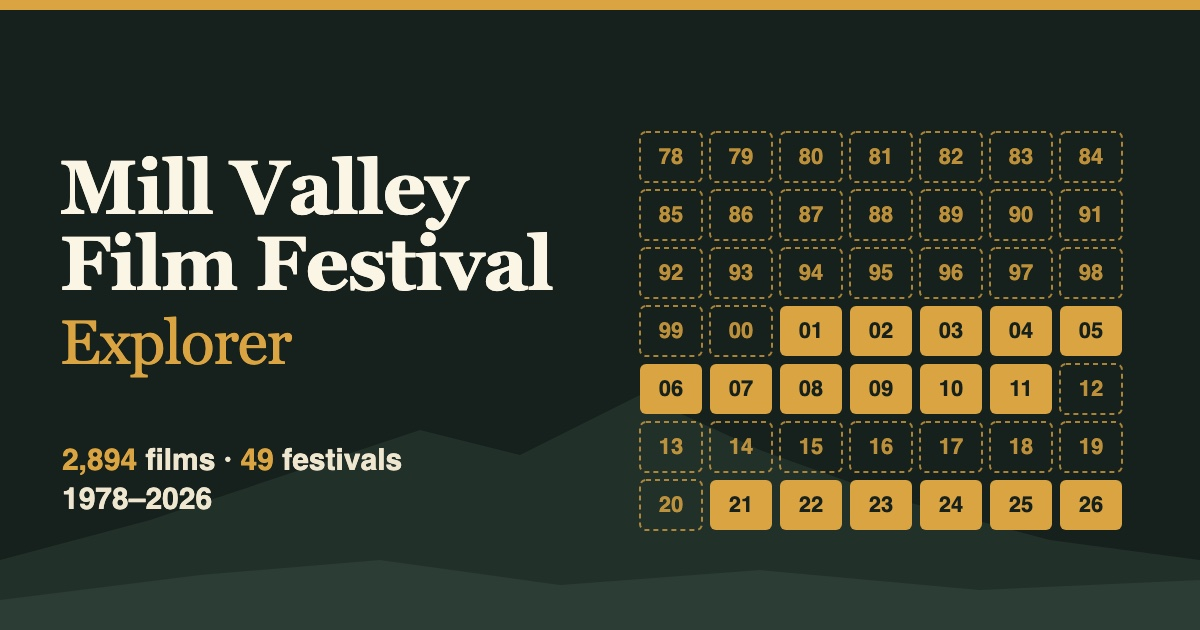
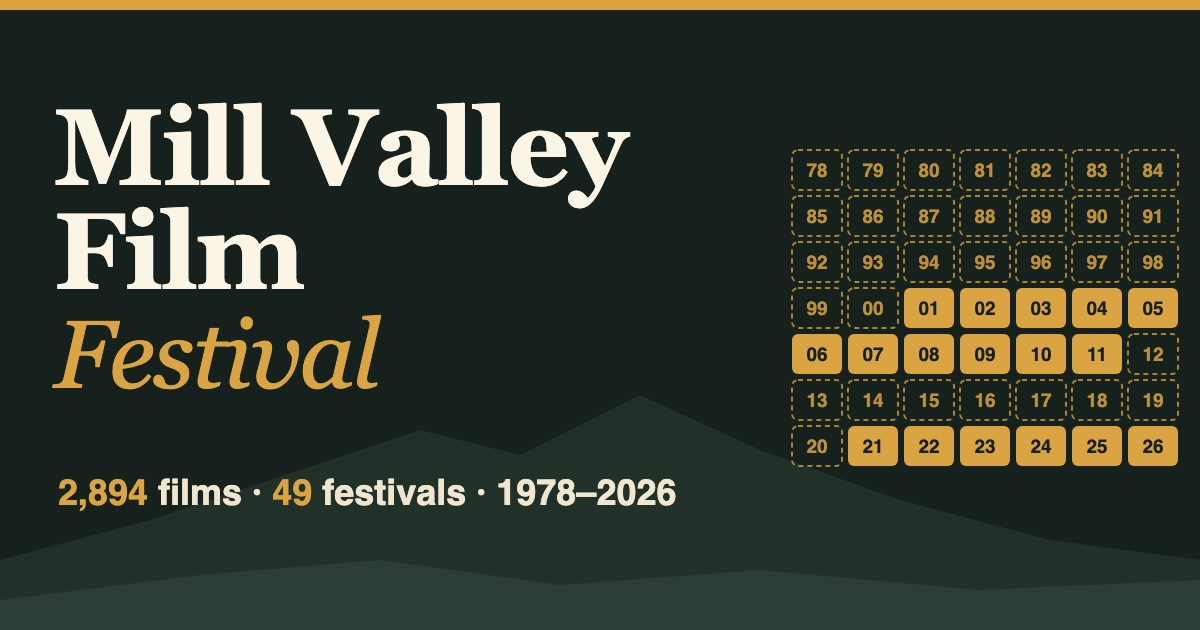
Cover: larger lettering so it reads at landing-card size

Changed region(s): [[0.0308, 0.1508, 0.9867, 0.8444]]

diff --git a/cover/cover.html b/cover/cover.html
@@ -2,17 +2,17 @@
 html,body{margin:0;width:1200px;height:630px;overflow:hidden;background:#16201c;font-family:Georgia,serif}
 svg{position:absolute;inset:0}
 .on{fill:#d9a441} .off{fill:none;stroke:#d9a441;stroke-width:2;stroke-dasharray:5 4;opacity:.75}
-text{font:700 22px -apple-system,Helvetica,sans-serif;text-anchor:middle}
+text{font:700 19px -apple-system,Helvetica,sans-serif;text-anchor:middle}
 .ton{fill:#16201c} .toff{fill:#d9a441;opacity:.85}
-h1{position:absolute;left:60px;top:150px;margin:0;color:#fbf5e6;font:700 76px/1.0 Georgia,serif;letter-spacing:-1px}
-h1 em{display:block;color:#d9a441;font-style:normal;font-weight:400;font-size:62px;margin-top:10px}
-p{position:absolute;left:62px;top:440px;margin:0;color:#efe6d0;font:600 30px/1.3 -apple-system,Helvetica,sans-serif}
+h1{position:absolute;left:54px;top:96px;margin:0;color:#fbf5e6;font:700 108px/.96 Georgia,serif;letter-spacing:-2px}
+h1 em{display:block;color:#d9a441;font-style:italic;font-weight:400;font-size:96px;margin-top:6px}
+p{position:absolute;left:58px;top:470px;margin:0;color:#efe6d0;font:600 36px/1.25 -apple-system,Helvetica,sans-serif}
 p b{color:#d9a441}
 </style>
 <svg viewBox="0 0 1200 630"><rect width="1200" height="630" fill="#16201c"/>
 <path d="M0 630 L0 560 L150 520 L300 470 L420 430 L520 455 L640 395 L760 450 L900 500 L1050 540 L1200 560 L1200 630 Z" fill="#22302a"/>
 <path d="M0 630 L0 600 L200 575 L380 560 L560 585 L760 570 L980 590 L1200 580 L1200 630 Z" fill="#2c3d35"/>
 <rect x="0" y="0" width="1200" height="10" fill="#d9a441"/>
-<g><rect x="640" y="132" width="62" height="50" rx="6" class="off"/><text x="671.0" y="164.0" class="toff">78</text></g><g><rect x="710" y="132" width="62" height="50" rx="6" class="off"/><text x="741.0" y="164.0" class="toff">79</text></g><g><rect x="780" y="132" width="62" height="50" rx="6" class="off"/><text x="811.0" y="164.0" class="toff">80</text></g><g><rect x="850" y="132" width="62" height="50" rx="6" class="off"/><text x="881.0" y="164.0" class="toff">81</text></g><g><rect x="920" y="132" width="62" height="50" rx="6" class="off"/><text x="951.0" y="164.0" class="toff">82</text></g><g><rect x="990" y="132" width="62" height="50" rx="6" class="off"/><text x="1021.0" y="164.0" class="toff">83</text></g><g><rect x="1060" y="132" width="62" height="50" rx="6" class="off"/><text x="1091.0" y="164.0" class="toff">84</text></g><g><rect x="640" y="190" width="62" height="50" rx="6" class="off"/><text x="671.0" y="222.0" class="toff">85</text></g><g><rect x="710" y="190" width="62" height="50" rx="6" class="off"/><text x="741.0" y="222.0" class="toff">86</text></g><g><rect x="780" y="190" width="62" height="50" rx="6" class="off"/><text x="811.0" y="222.0" class="toff">87</text></g><g><rect x="850" y="190" width="62" height="50" rx="6" class="off"/><text x="881.0" y="222.0" class="toff">88</text></g><g><rect x="920" y="190" width="62" height="50" rx="6" class="off"/><text x="951.0" y="222.0" class="toff">89</text></g><g><rect x="990" y="190" width="62" height="50" rx="6" class="off"/><text x="1021.0" y="222.0" class="toff">90</text></g><g><rect x="1060" y="190" width="62" height="50" rx="6" class="off"/><text x="1091.0" y="222.0" class="toff">91</text></g><g><rect x="640" y="248" width="62" height="50" rx="6" class="off"/><text x="671.0" y="280.0" class="toff">92</text></g><g><rect x="710" y="248" width="62" height="50" rx="6" class="off"/><text x="741.0" y="280.0" class="toff">93</text></g><g><rect x="780" y="248" width="62" height="50" rx="6" class="off"/><text x="811.0" y="280.0" class="toff">94</text></g><g><rect x="850" y="248" width="62" height="50" rx="6" class="off"/><text x="881.0" y="280.0" class="toff">95</text></g><g><rect x="920" y="248" width="62" height="50" rx="6" class="off"/><text x="951.0" y="280.0" class="toff">96</text></g><g><rect x="990" y="248" width="62" height="50" rx="6" class="off"/><text x="1021.0" y="280.0" class="toff">97</text></g><g><rect x="1060" y="248" width="62" height="50" rx="6" class="off"/><text x="1091.0" y="280.0" class="toff">98</text></g><g><rect x="640" y="306" width="62" height="50" rx="6" class="off"/><text x="671.0" y="338.0" class="toff">99</text></g><g><rect x="710" y="306" width="62" height="50" rx="6" class="off"/><text x="741.0" y="338.0" class="toff">00</text></g><g><rect x="780" y="306" width="62" height="50" rx="6" class="on"/><text x="811.0" y="338.0" class="ton">01</text></g><g><rect x="850" y="306" width="62" height="50" rx="6" class="on"/><text x="881.0" y="338.0" class="ton">02</text></g><g><rect x="920" y="306" width="62" height="50" rx="6" class="on"/><text x="951.0" y="338.0" class="ton">03</text></g><g><rect x="990" y="306" width="62" height="50" rx="6" class="on"/><text x="1021.0" y="338.0" class="ton">04</text></g><g><rect x="1060" y="306" width="62" height="50" rx="6" class="on"/><text x="1091.0" y="338.0" class="ton">05</text></g><g><rect x="640" y="364" width="62" height="50" rx="6" class="on"/><text x="671.0" y="396.0" class="ton">06</text></g><g><rect x="710" y="364" width="62" height="50" rx="6" class="on"/><text x="741.0" y="396.0" class="ton">07</text></g><g><rect x="780" y="364" width="62" height="50" rx="6" class="on"/><text x="811.0" y="396.0" class="ton">08</text></g><g><rect x="850" y="364" width="62" height="50" rx="6" class="on"/><text x="881.0" y="396.0" class="ton">09</text></g><g><rect x="920" y="364" width="62" height="50" rx="6" class="on"/><text x="951.0" y="396.0" class="ton">10</text></g><g><rect x="990" y="364" width="62" height="50" rx="6" class="on"/><text x="1021.0" y="396.0" class="ton">11</text></g><g><rect x="1060" y="364" width="62" height="50" rx="6" class="off"/><text x="1091.0" y="396.0" class="toff">12</text></g><g><rect x="640" y="422" width="62" height="50" rx="6" class="off"/><text x="671.0" y="454.0" class="toff">13</text></g><g><rect x="710" y="422" width="62" height="50" rx="6" class="off"/><text x="741.0" y="454.0" class="toff">14</text></g><g><rect x="780" y="422" width="62" height="50" rx="6" class="off"/><text x="811.0" y="454.0" class="toff">15</text></g><g><rect x="850" y="422" width="62" height="50" rx="6" class="off"/><text x="881.0" y="454.0" class="toff">16</text></g><g><rect x="920" y="422" width="62" height="50" rx="6" class="off"/><text x="951.0" y="454.0" class="toff">17</text></g><g><rect x="990" y="422" width="62" height="50" rx="6" class="off"/><text x="1021.0" y="454.0" class="toff">18</text></g><g><rect x="1060" y="422" width="62" height="50" rx="6" class="off"/><text x="1091.0" y="454.0" class="toff">19</text></g><g><rect x="640" y="480" width="62" height="50" rx="6" class="off"/><text x="671.0" y="512.0" class="toff">20</text></g><g><rect x="710" y="480" width="62" height="50" rx="6" class="on"/><text x="741.0" y="512.0" class="ton">21</text></g><g><rect x="780" y="480" width="62" height="50" rx="6" class="on"/><text x="811.0" y="512.0" class="ton">22</text></g><g><rect x="850" y="480" width="62" height="50" rx="6" class="on"/><text x="881.0" y="512.0" class="ton">23</text></g><g><rect x="920" y="480" width="62" height="50" rx="6" class="on"/><text x="951.0" y="512.0" class="ton">24</text></g><g><rect x="990" y="480" width="62" height="50" rx="6" class="on"/><text x="1021.0" y="512.0" class="ton">25</text></g><g><rect x="1060" y="480" width="62" height="50" rx="6" class="on"/><text x="1091.0" y="512.0" class="ton">26</text></g></svg>
-<h1>Mill Valley<br>Film Festival<em>Explorer</em></h1>
-<p><b>2,894</b> films · <b>49</b> festivals<br>1978–2026</p>
+<g><rect x="792" y="150" width="50" height="40" rx="6" class="off"/><text x="817.0" y="177.0" class="toff">78</text></g><g><rect x="848" y="150" width="50" height="40" rx="6" class="off"/><text x="873.0" y="177.0" class="toff">79</text></g><g><rect x="904" y="150" width="50" height="40" rx="6" class="off"/><text x="929.0" y="177.0" class="toff">80</text></g><g><rect x="960" y="150" width="50" height="40" rx="6" class="off"/><text x="985.0" y="177.0" class="toff">81</text></g><g><rect x="1016" y="150" width="50" height="40" rx="6" class="off"/><text x="1041.0" y="177.0" class="toff">82</text></g><g><rect x="1072" y="150" width="50" height="40" rx="6" class="off"/><text x="1097.0" y="177.0" class="toff">83</text></g><g><rect x="1128" y="150" width="50" height="40" rx="6" class="off"/><text x="1153.0" y="177.0" class="toff">84</text></g><g><rect x="792" y="196" width="50" height="40" rx="6" class="off"/><text x="817.0" y="223.0" class="toff">85</text></g><g><rect x="848" y="196" width="50" height="40" rx="6" class="off"/><text x="873.0" y="223.0" class="toff">86</text></g><g><rect x="904" y="196" width="50" height="40" rx="6" class="off"/><text x="929.0" y="223.0" class="toff">87</text></g><g><rect x="960" y="196" width="50" height="40" rx="6" class="off"/><text x="985.0" y="223.0" class="toff">88</text></g><g><rect x="1016" y="196" width="50" height="40" rx="6" class="off"/><text x="1041.0" y="223.0" class="toff">89</text></g><g><rect x="1072" y="196" width="50" height="40" rx="6" class="off"/><text x="1097.0" y="223.0" class="toff">90</text></g><g><rect x="1128" y="196" width="50" height="40" rx="6" class="off"/><text x="1153.0" y="223.0" class="toff">91</text></g><g><rect x="792" y="242" width="50" height="40" rx="6" class="off"/><text x="817.0" y="269.0" class="toff">92</text></g><g><rect x="848" y="242" width="50" height="40" rx="6" class="off"/><text x="873.0" y="269.0" class="toff">93</text></g><g><rect x="904" y="242" width="50" height="40" rx="6" class="off"/><text x="929.0" y="269.0" class="toff">94</text></g><g><rect x="960" y="242" width="50" height="40" rx="6" class="off"/><text x="985.0" y="269.0" class="toff">95</text></g><g><rect x="1016" y="242" width="50" height="40" rx="6" class="off"/><text x="1041.0" y="269.0" class="toff">96</text></g><g><rect x="1072" y="242" width="50" height="40" rx="6" class="off"/><text x="1097.0" y="269.0" class="toff">97</text></g><g><rect x="1128" y="242" width="50" height="40" rx="6" class="off"/><text x="1153.0" y="269.0" class="toff">98</text></g><g><rect x="792" y="288" width="50" height="40" rx="6" class="off"/><text x="817.0" y="315.0" class="toff">99</text></g><g><rect x="848" y="288" width="50" height="40" rx="6" class="off"/><text x="873.0" y="315.0" class="toff">00</text></g><g><rect x="904" y="288" width="50" height="40" rx="6" class="on"/><text x="929.0" y="315.0" class="ton">01</text></g><g><rect x="960" y="288" width="50" height="40" rx="6" class="on"/><text x="985.0" y="315.0" class="ton">02</text></g><g><rect x="1016" y="288" width="50" height="40" rx="6" class="on"/><text x="1041.0" y="315.0" class="ton">03</text></g><g><rect x="1072" y="288" width="50" height="40" rx="6" class="on"/><text x="1097.0" y="315.0" class="ton">04</text></g><g><rect x="1128" y="288" width="50" height="40" rx="6" class="on"/><text x="1153.0" y="315.0" class="ton">05</text></g><g><rect x="792" y="334" width="50" height="40" rx="6" class="on"/><text x="817.0" y="361.0" class="ton">06</text></g><g><rect x="848" y="334" width="50" height="40" rx="6" class="on"/><text x="873.0" y="361.0" class="ton">07</text></g><g><rect x="904" y="334" width="50" height="40" rx="6" class="on"/><text x="929.0" y="361.0" class="ton">08</text></g><g><rect x="960" y="334" width="50" height="40" rx="6" class="on"/><text x="985.0" y="361.0" class="ton">09</text></g><g><rect x="1016" y="334" width="50" height="40" rx="6" class="on"/><text x="1041.0" y="361.0" class="ton">10</text></g><g><rect x="1072" y="334" width="50" height="40" rx="6" class="on"/><text x="1097.0" y="361.0" class="ton">11</text></g><g><rect x="1128" y="334" width="50" height="40" rx="6" class="off"/><text x="1153.0" y="361.0" class="toff">12</text></g><g><rect x="792" y="380" width="50" height="40" rx="6" class="off"/><text x="817.0" y="407.0" class="toff">13</text></g><g><rect x="848" y="380" width="50" height="40" rx="6" class="off"/><text x="873.0" y="407.0" class="toff">14</text></g><g><rect x="904" y="380" width="50" height="40" rx="6" class="off"/><text x="929.0" y="407.0" class="toff">15</text></g><g><rect x="960" y="380" width="50" height="40" rx="6" class="off"/><text x="985.0" y="407.0" class="toff">16</text></g><g><rect x="1016" y="380" width="50" height="40" rx="6" class="off"/><text x="1041.0" y="407.0" class="toff">17</text></g><g><rect x="1072" y="380" width="50" height="40" rx="6" class="off"/><text x="1097.0" y="407.0" class="toff">18</text></g><g><rect x="1128" y="380" width="50" height="40" rx="6" class="off"/><text x="1153.0" y="407.0" class="toff">19</text></g><g><rect x="792" y="426" width="50" height="40" rx="6" class="off"/><text x="817.0" y="453.0" class="toff">20</text></g><g><rect x="848" y="426" width="50" height="40" rx="6" class="on"/><text x="873.0" y="453.0" class="ton">21</text></g><g><rect x="904" y="426" width="50" height="40" rx="6" class="on"/><text x="929.0" y="453.0" class="ton">22</text></g><g><rect x="960" y="426" width="50" height="40" rx="6" class="on"/><text x="985.0" y="453.0" class="ton">23</text></g><g><rect x="1016" y="426" width="50" height="40" rx="6" class="on"/><text x="1041.0" y="453.0" class="ton">24</text></g><g><rect x="1072" y="426" width="50" height="40" rx="6" class="on"/><text x="1097.0" y="453.0" class="ton">25</text></g><g><rect x="1128" y="426" width="50" height="40" rx="6" class="on"/><text x="1153.0" y="453.0" class="ton">26</text></g></svg>
+<h1>Mill Valley<br>Film<em>Festival</em></h1>
+<p><b>2,894</b> films · <b>49</b> festivals · 1978–2026</p>

diff --git a/cover/make.py b/cover/make.py
@@ -12,7 +12,7 @@ E = {int(k): v for k, v in d["editions"].items()}
 W, H = 1200, 630
 nf = len(d["films"])
 cells = []
-x0, y0, cw, ch, gap = 640, 132, 62, 50, 8
+x0, y0, cw, ch, gap = 792, 150, 50, 40, 6
 for i, y in enumerate(sorted(E)):
     r, c = divmod(i, 7)
     x, yy = x0 + c * (cw + gap), y0 + r * (ch + gap)
@@ -23,11 +23,11 @@ html = f"""<!doctype html><meta charset=utf-8><style>
 html,body{{margin:0;width:{W}px;height:{H}px;overflow:hidden;background:#16201c;font-family:Georgia,serif}}
 svg{{position:absolute;inset:0}}
 .on{{fill:#d9a441}} .off{{fill:none;stroke:#d9a441;stroke-width:2;stroke-dasharray:5 4;opacity:.75}}
-text{{font:700 22px -apple-system,Helvetica,sans-serif;text-anchor:middle}}
+text{{font:700 19px -apple-system,Helvetica,sans-serif;text-anchor:middle}}
 .ton{{fill:#16201c}} .toff{{fill:#d9a441;opacity:.85}}
-h1{{position:absolute;left:60px;top:150px;margin:0;color:#fbf5e6;font:700 76px/1.0 Georgia,serif;letter-spacing:-1px}}
-h1 em{{display:block;color:#d9a441;font-style:normal;font-weight:400;font-size:62px;margin-top:10px}}
-p{{position:absolute;left:62px;top:440px;margin:0;color:#efe6d0;font:600 30px/1.3 -apple-system,Helvetica,sans-serif}}
+h1{{position:absolute;left:54px;top:96px;margin:0;color:#fbf5e6;font:700 108px/.96 Georgia,serif;letter-spacing:-2px}}
+h1 em{{display:block;color:#d9a441;font-style:italic;font-weight:400;font-size:96px;margin-top:6px}}
+p{{position:absolute;left:58px;top:470px;margin:0;color:#efe6d0;font:600 36px/1.25 -apple-system,Helvetica,sans-serif}}
 p b{{color:#d9a441}}
 </style>
 <svg viewBox="0 0 {W} {H}"><rect width="{W}" height="{H}" fill="#16201c"/>
@@ -35,8 +35,8 @@ p b{{color:#d9a441}}
 <path d="M0 630 L0 600 L200 575 L380 560 L560 585 L760 570 L980 590 L1200 580 L1200 630 Z" fill="#2c3d35"/>
 <rect x="0" y="0" width="{W}" height="10" fill="#d9a441"/>
 {''.join(cells)}</svg>
-<h1>Mill Valley<br>Film Festival<em>Explorer</em></h1>
-<p><b>{nf:,}</b> films · <b>49</b> festivals<br>1978–2026</p>"""
+<h1>Mill Valley<br>Film<em>Festival</em></h1>
+<p><b>{nf:,}</b> films · <b>49</b> festivals · 1978–2026</p>"""
 (here / "cover.html").write_text(html)
 chrome = "/Applications/Google Chrome.app/Contents/MacOS/Google Chrome"
 png = here / "cover.png"
